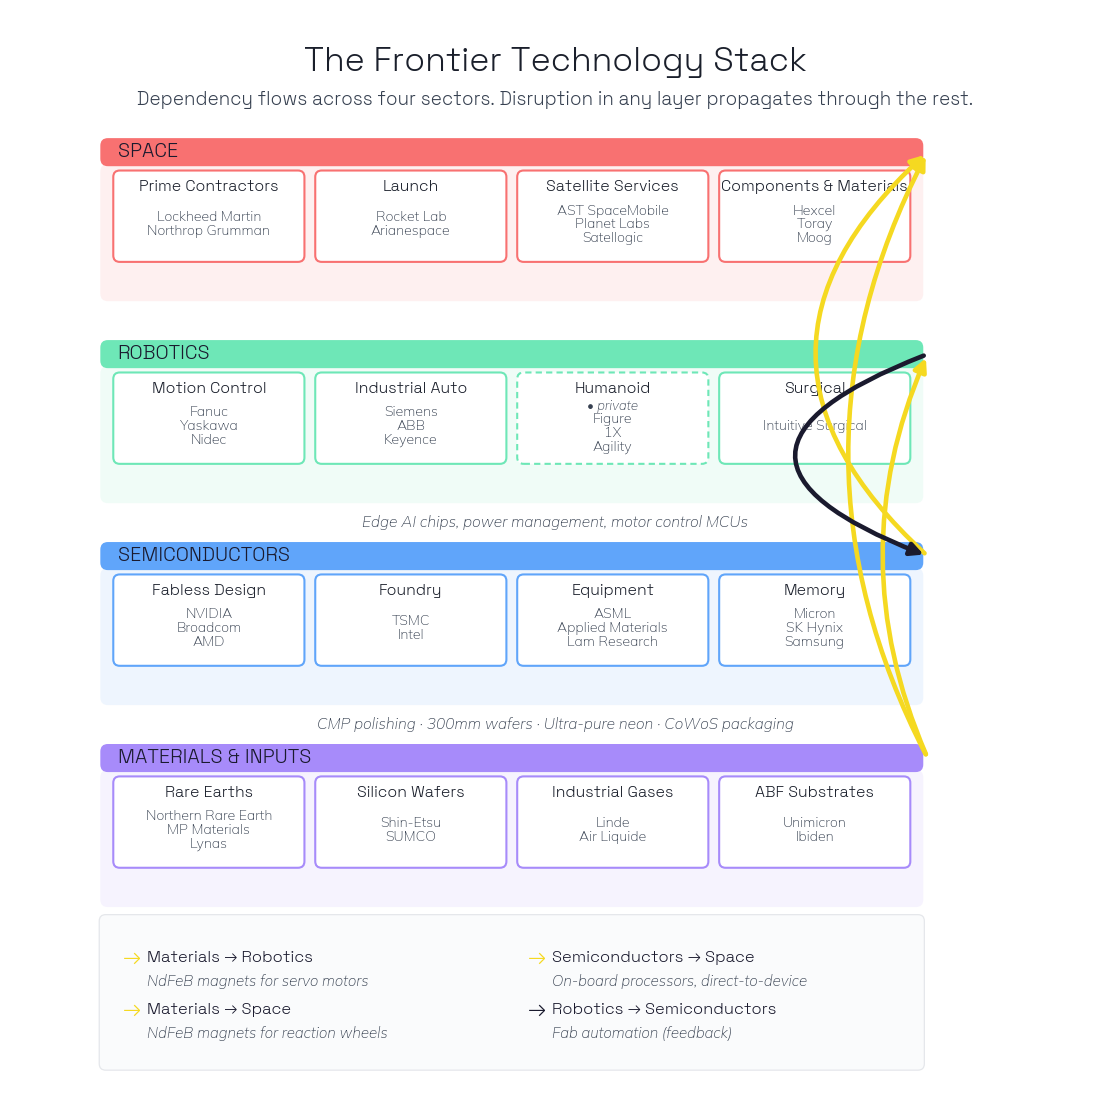
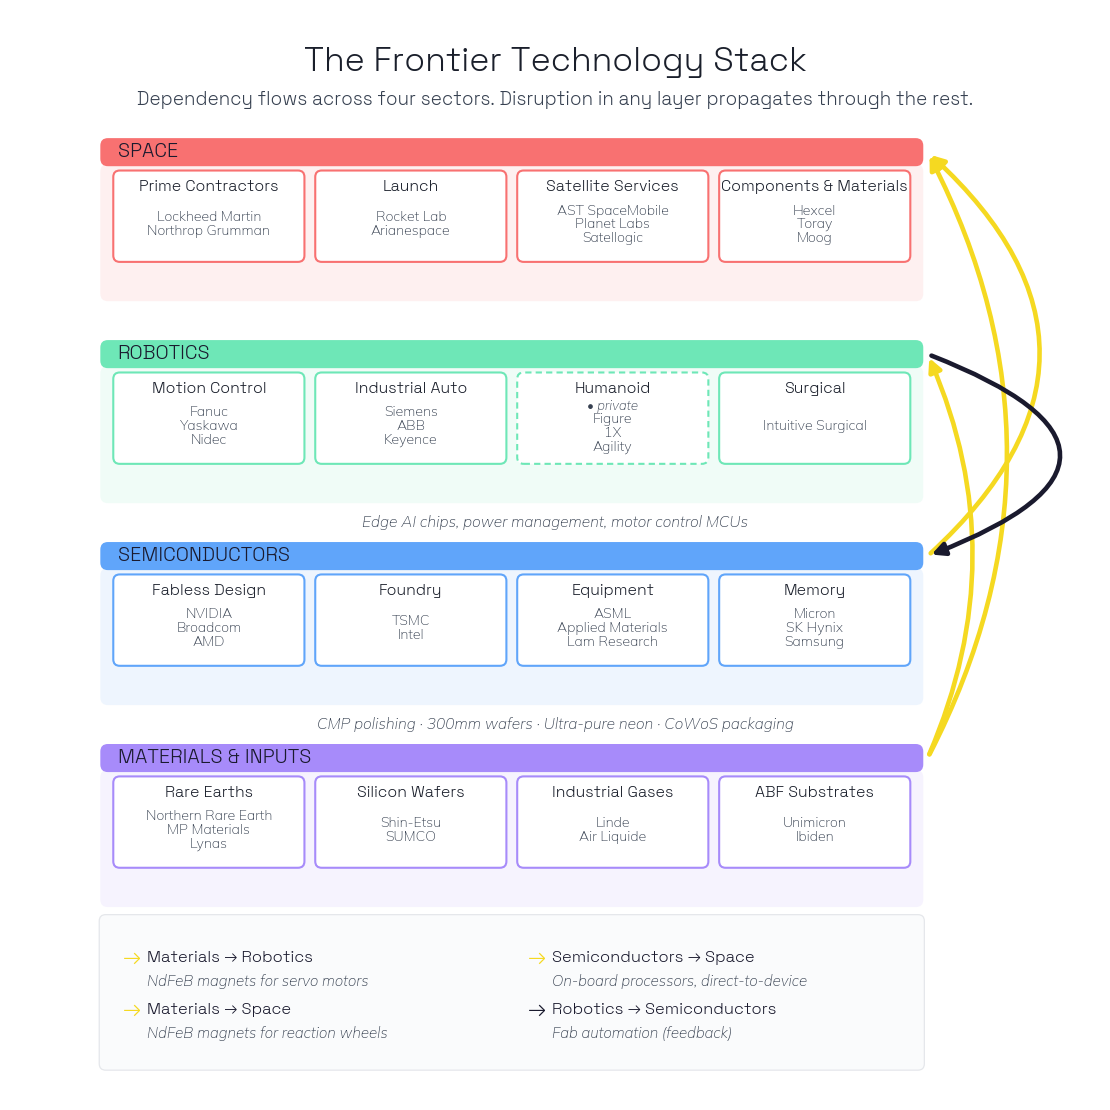
chart updates

Changed region(s): [[0.7045, 0.1225, 0.9495, 0.6739], [0.9495, 0.3982, 0.9802, 0.4288]]

diff --git a/scripts/generate_extra_report_figures.py b/scripts/generate_extra_report_figures.py
@@ -377,24 +377,20 @@ def _draw_dependency_chain(figsize, fontscale=1.0, is_square=False):
     # border itself.
     anchor_x = x_right + 0.005
 
-    # rad sign convention: for an UP arrow (start below end, a > b
-    # in axes y but in matplotlib y-up coords start_y < end_y), a
-    # NEGATIVE rad bows the curve to the right of the straight line.
-    # For a DOWN arrow (start above end), POSITIVE rad bows right.
-    # Magnitudes calibrated so each arrow's apex sits at a distinct
-    # x position increasing outward (~30, ~60, ~75, ~100 px from
-    # banner edge at print scale).
-    # rad values calibrated so each arrow's apex sits at a distinct x
-    # offset from the banner edge — A closest, D furthest. For a
-    # vertical-line bezier the apex distance ≈ |rad| × span / 2, so
-    # arrows with short spans (A and D) need bigger rad to bow out
-    # the same absolute distance as arrows with long spans (B, C).
+    # Sign convention (verified against rendered output): for a
+    # vertical-line bezier on matplotlib's arc3, NEGATIVE rad bows
+    # the curve to the right when going up, and POSITIVE rad bows
+    # right when going down. We want all four arrows to curve INTO
+    # THE EMPTY RIGHT GUTTER (away from the rightmost column boxes),
+    # so upward arrows (A/B/C) use NEGATIVE rad and the downward
+    # feedback (D) uses POSITIVE rad. Magnitudes calibrated so each
+    # arrow's apex sits at a distinct x offset from the banner edge.
     arrow_specs = [
         # (src, dst, color, rad)
-        (3, 1, PALETTE.composite, -0.22),  # A: Materials → Robotics (short span, small bow)
-        (3, 0, PALETTE.composite, -0.26),  # B: Materials → Space (longest span, medium bow)
-        (2, 0, PALETTE.composite, -0.55),  # C: Semis → Space (medium span, bigger bow)
-        (1, 2, DARK_NAVY,         +1.30),  # D: Robotics → Semis feedback (DOWN, shortest span — biggest rad)
+        (3, 1, PALETTE.composite, +0.22),  # A: Materials → Robotics (up, right bow)
+        (3, 0, PALETTE.composite, +0.26),  # B: Materials → Space (up, right bow)
+        (2, 0, PALETTE.composite, +0.55),  # C: Semis → Space (up, right bow)
+        (1, 2, DARK_NAVY,         -1.30),  # D: Robotics → Semis feedback (down, right bow)
     ]
     for src, dst, col, rad in arrow_specs:
         y_start = banner_mid_y(src)

diff --git a/scripts/generate_funding_charts.py b/scripts/generate_funding_charts.py
@@ -116,7 +116,7 @@ def donut_chart(rounds, out_path):
     )
 
     # Title + subtitle — Space Grotesk
-    fig.suptitle("Figure 4 — Q1 2026 Funding by Sector",
+    fig.suptitle("Q1 2026 Funding by Sector",
                  x=0.5, y=0.96, ha="center",
                  fontproperties=title_font(size=13),
                  color=PALETTE.ink)
@@ -196,7 +196,7 @@ def monthly_stacked_bars(rounds, out_path):
     ax.set_xlim(-0.7, len(months) - 0.3)
 
     # Titles — Space Grotesk
-    fig.suptitle("Figure 5 — Frontier Stack Monthly Funding, 2025–2026",
+    fig.suptitle("Frontier Stack Monthly Funding, 2025–2026",
                  x=0.5, y=0.96, ha="center",
                  fontproperties=title_font(size=13),
                  color=PALETTE.ink)

diff --git a/scripts/generate_report_pdf_v6.py b/scripts/generate_report_pdf_v6.py
@@ -214,12 +214,12 @@ FIGURE_PLACEMENTS = {
     },
     "sec4_fig4": {
         "image": CHARTS / "chart_funding_trends.png",
-        "caption": "Figure 4: Frontier Stack Monthly Funding, April 2025 – March 2026. "
+        "caption": "Frontier Stack Monthly Funding, April 2025 – March 2026. "
                    "Stacked by sector.",
     },
     "sec4_fig5": {
         "image": CHARTS / "chart_q1_funding_breakdown.png",
-        "caption": "Figure 5: Q1 2026 Funding by Sector — $46.0bn across 91 rounds.",
+        "caption": "Q1 2026 Funding by Sector — $46.0bn across 91 rounds.",
     },
 }
 
